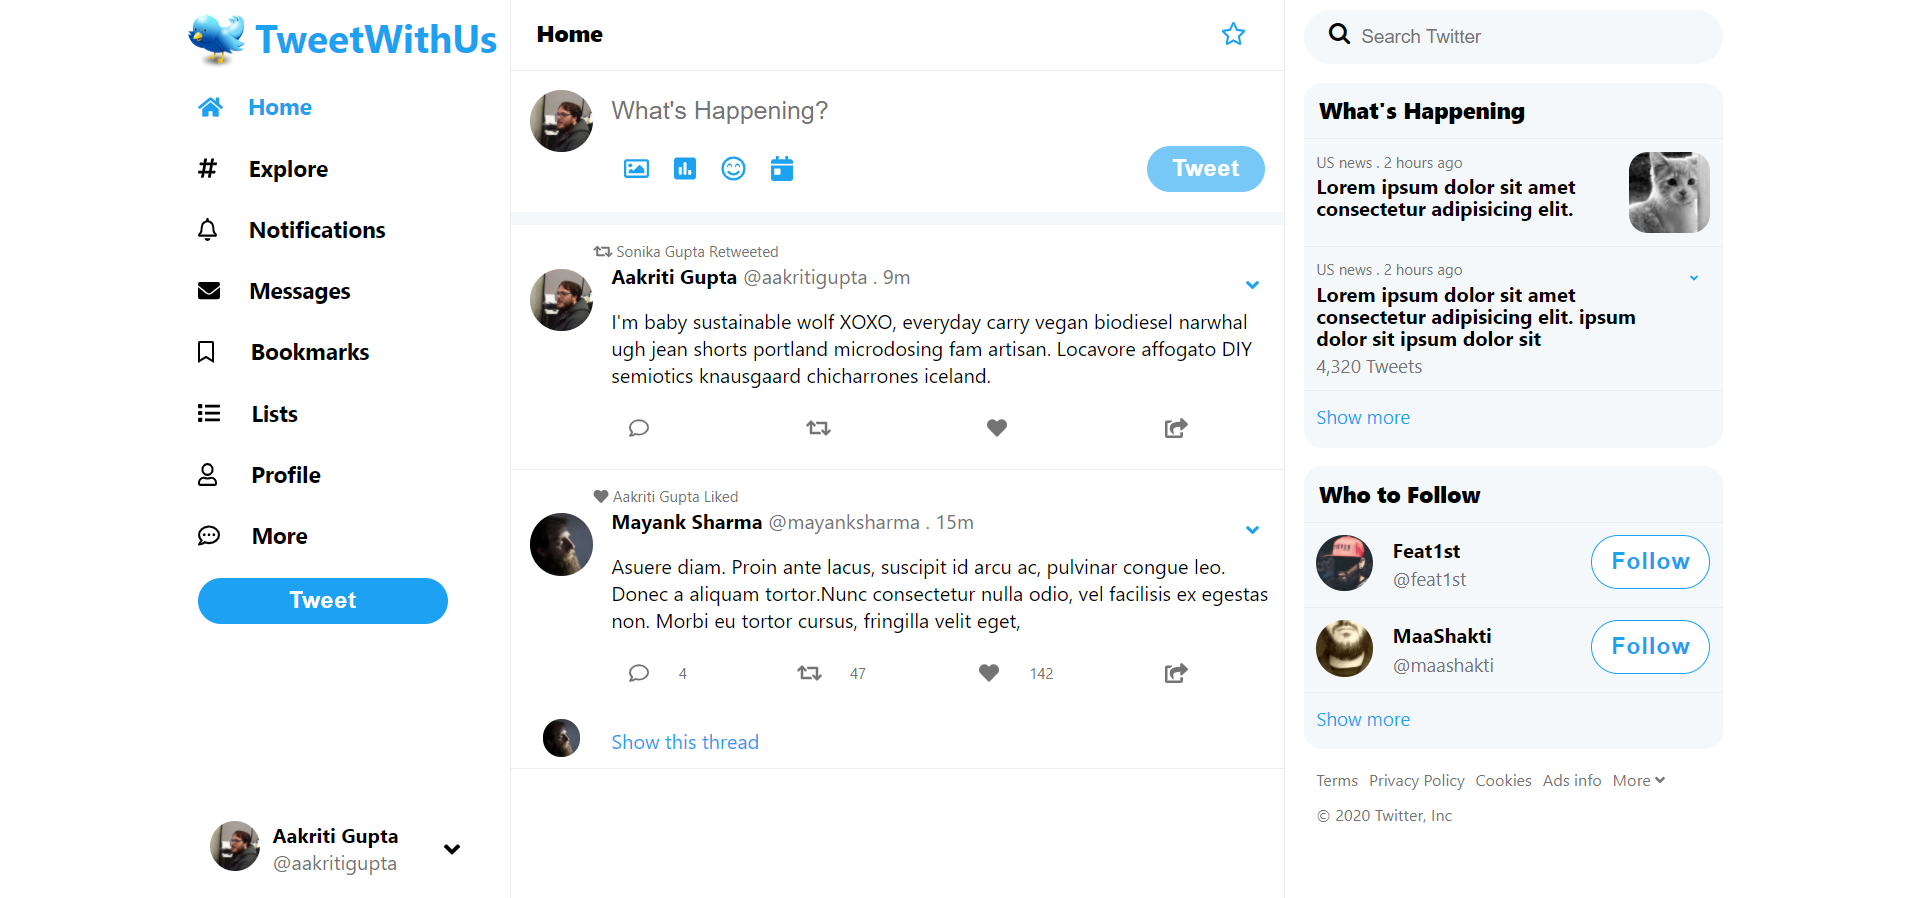
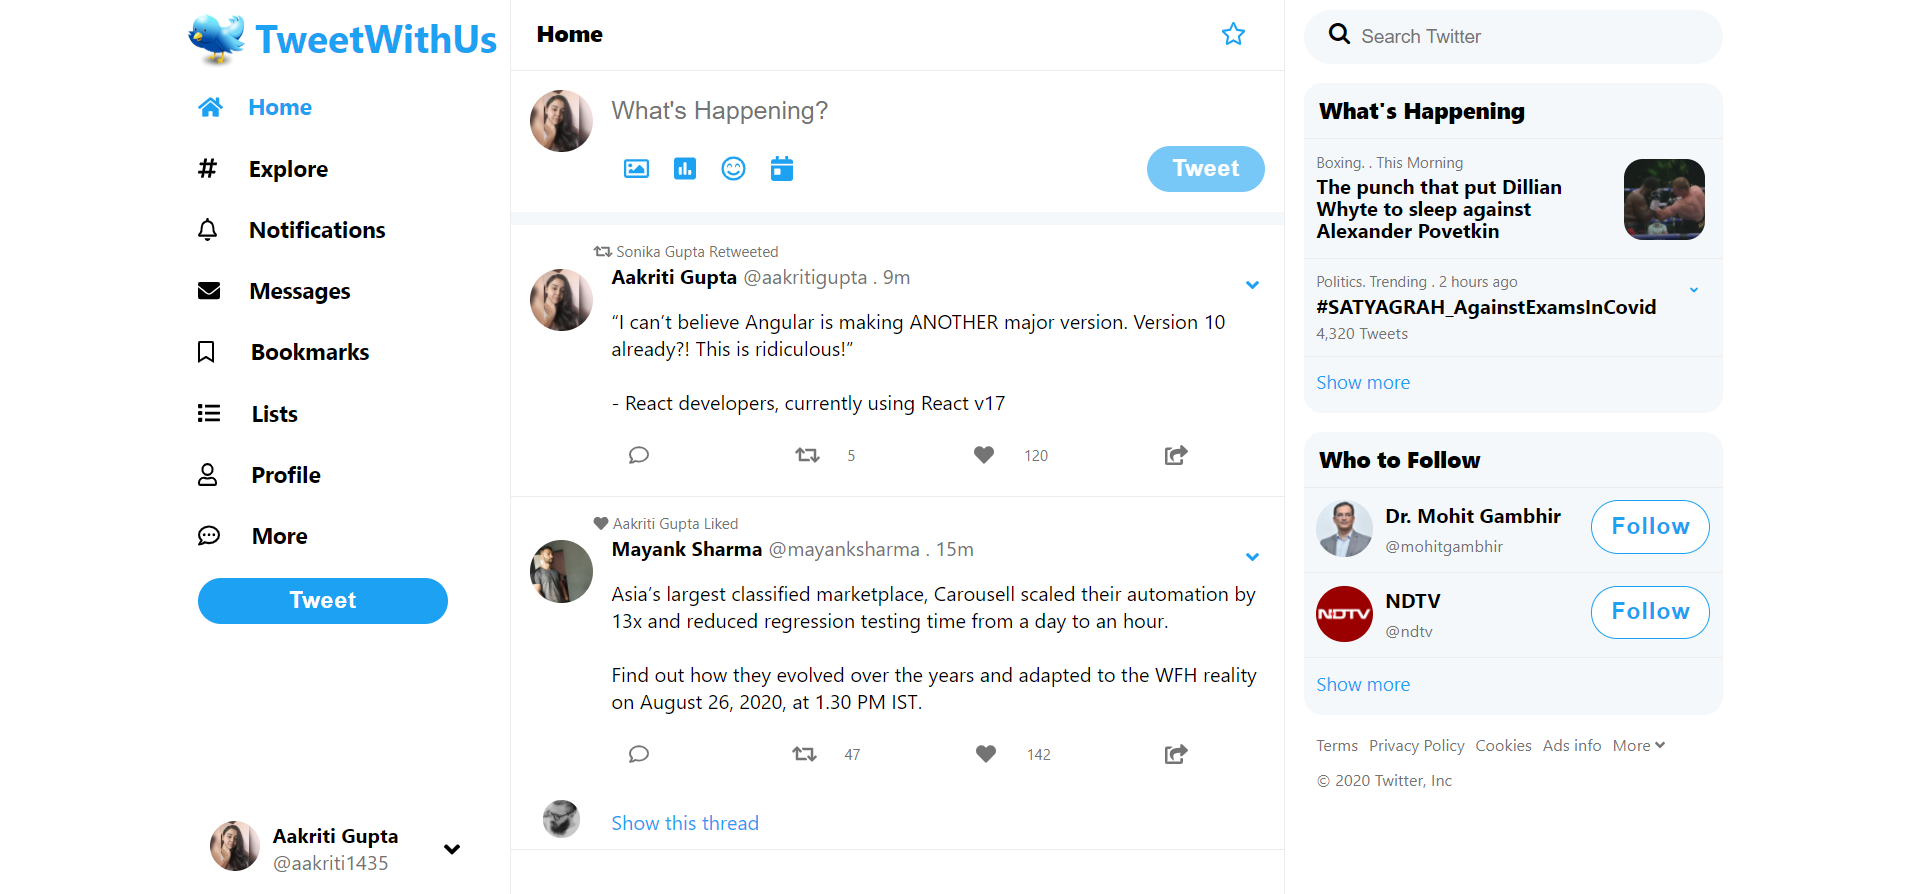
Content Changed

diff --git a/index.html b/index.html
@@ -85,10 +85,10 @@
       <div class="bottom">
         <a href="#" class="profile-container">
           <div class="profile">
-            <img src="https://placebeard.it/320x320" alt="Jesse James Burton" />
+            <img src="https://pbs.twimg.com/profile_images/1291257536046227456/v1MWdZBu_400x400.jpg" alt="Jesse James Burton" />
             <div class="profile__name">
               <strong>Aakriti Gupta</strong>
-              <span>@aakritigupta</span>
+              <span>@aakriti1435</span>
             </div>
           </div>
           <div class="arrow"><i class="fas fa-angle-down"></i></div>
@@ -110,7 +110,7 @@
 
       <form class="tweet-form">
         <div class="tweet-image">
-          <img class="profile-image" src="https://placebeard.it/320x320" alt="Jesse James Burton" />
+          <img class="profile-image" src="https://pbs.twimg.com/profile_images/1291257536046227456/v1MWdZBu_400x400.jpg" alt="Jesse James Burton" />
         </div>
         <div class="tweet-input">
           <input type="text" placeholder="What's Happening?" />
@@ -130,7 +130,7 @@
       <div class="tweets">
         <div class="tweet">
           <div class="tweet-image">
-            <img class="profile-image" src="https://placebeard.it/320x320" alt="Jesse James Burton" />
+            <img class="profile-image" src="https://pbs.twimg.com/profile_images/1291257536046227456/v1MWdZBu_400x400.jpg" alt="Jesse James Burton" />
           </div>
           <div class="tweet-content">
             <div class="latest-info">
@@ -150,18 +150,19 @@
               </div>
             </header>
             <div class="tweet-body">
-              <p>I'm baby sustainable wolf XOXO, everyday carry vegan biodiesel narwhal ugh jean shorts portland
-                microdosing fam artisan. Locavore affogato DIY semiotics knausgaard chicharrones iceland.</p>
+              <p>“I can’t believe Angular is making ANOTHER major version. Version 10 already?! This is ridiculous!”
+              <br><br>
+              - React developers, currently using React v17</p>
             </div>
             <footer class="tweet-footer">
               <a href="#" class="comment">
                 <span><i class="far fa-comment"></i></span>
               </a>
               <a href="#" class="retweet">
-                <span><i class="fas fa-retweet"></i></span>
+                <span><i class="fas fa-retweet"></i></span>5
               </a>
               <a href="#" class="like">
-                <span><i class="fas fa-heart"></i></span>
+                <span><i class="fas fa-heart"></i></span>120
               </a>
               <a href="#" class="share">
                 <span><i class="fas fa-share-square"></i></span>
@@ -172,7 +173,7 @@
 
         <div class="tweet hasthread">
           <div class="tweet-image">
-            <img class="profile-image" src="https://placebeard.it/320x320?tweet2" alt="Jesse James Burton" />
+            <img class="profile-image" src="https://pbs.twimg.com/profile_images/1294604989684318209/UnEAjOqP_400x400.jpg" alt="Jesse James Burton" />
           </div>
           <div class="tweet-content">
             <div class="latest-info">
@@ -192,13 +193,13 @@
               </div>
             </header>
             <div class="tweet-body">
-              <p>Asuere diam. Proin ante lacus, suscipit id arcu ac, pulvinar congue leo. Donec a aliquam tortor.Nunc
-                consectetur nulla odio, vel facilisis ex egestas non. Morbi eu tortor cursus, fringilla velit
-                eget,</p>
+              <p>Asia’s largest classified marketplace, Carousell scaled their automation by 13x and reduced regression testing time from a day to an hour.
+              <br><br>
+              Find out how they evolved over the years and adapted to the WFH reality on August 26, 2020, at 1.30 PM IST.</p>
             </div>
             <footer class="tweet-footer">
               <a href="#" class="comment">
-                <span><i class="far fa-comment"></i></span> 4
+                <span><i class="far fa-comment"></i></span>
               </a>
               <a href="#" class="retweet">
                 <span><i class="fas fa-retweet"></i></span> 47
@@ -234,13 +235,13 @@
         <div class="happening">
           <div class="happening-left">
             <div class="meta">
-              US news . 2 hours ago
+              Boxing. . This Morning
             </div>
-            <div class="text">Lorem ipsum dolor sit amet consectetur adipisicing elit.</div>
+            <div class="text">The punch that put Dillian Whyte to sleep against Alexander Povetkin</div>
           </div>
           <div class="happening-right">
             <div class="happening-image">
-              <img src="https://placekitten.com/g/200/300?rand" alt="Kitten">
+              <img src="https://pbs.twimg.com/media/EgDz5WeUMAExLHs?format=jpg&name=900x900" alt="">
             </div>
           </div>
         </div>
@@ -248,9 +249,10 @@
         <div class="happening">
           <div class="happening-left">
             <div class="meta">
-              US news . 2 hours ago
+              <!-- US news . 2 hours ago -->
+              Politics. Trending . 2 hours ago
             </div>
-            <div class="text">Lorem ipsum dolor sit amet consectetur adipisicing elit. ipsum dolor sit ipsum dolor sit
+            <div class="text">#SATYAGRAH_AgainstExamsInCovid
             </div>
             <div class="sub-meta">
               4,320 Tweets
@@ -278,10 +280,10 @@
         <div class="happening">
           <div class="happening-left">
             <div class="happening-profile">
-              <img class="profile-image" src="https://placebeard.it/320x320?tweetsdfdsf2" alt="Jesse James Burton" />
+              <img class="profile-image" src="https://pbs.twimg.com/profile_images/1259015310574710786/SlZuc0Pq_200x200.jpg" alt="Jesse James Burton" />
               <div class="profile-name">
-                <a href="#">Feat1st</a>
-                <a href="#">@feat1st</a>
+                <a href="#">Dr. Mohit Gambhir</a>
+                <a href="#">@mohitgambhir</a>
               </div>
             </div>
           </div>
@@ -293,10 +295,10 @@
         <div class="happening">
           <div class="happening-left">
             <div class="happening-profile">
-              <img class="profile-image" src="https://placebeard.it/320x320?tweet2dsfas" alt="Jesse James Burton" />
+              <img class="profile-image" src="https://pbs.twimg.com/profile_images/570440108424171520/QuGYd7jH_200x200.png" alt="Jesse James Burton" />
               <div class="profile-name">
-                <a href="#">MaaShakti</a>
-                <a href="#">@maashakti</a>
+                <a href="#">NDTV</a>
+                <a href="#">@ndtv</a>
               </div>
             </div>
           </div>

diff --git a/style.css b/style.css
@@ -435,7 +435,7 @@ main a {
 .happening .sub-meta,
 .happening .profile-name a + a {
   font-weight: 400;
-  font-size: 1.5rem;
+  font-size: 1.3rem;
   color: var(--greytext);
 }
 
@@ -446,7 +446,7 @@ main a {
 .happening-profile img.profile-image {
   width: 4.5rem;
   height: 4.5rem;
-  margin-right: 1.6rem;
+  margin-right: 1.0rem;
 }
 
 .happening-profile .profile-name {
@@ -454,7 +454,7 @@ main a {
 }
 
 .happening-left {
-  padding-right: 1rem;
+  padding-right: 1.5rem;
 }
 
 .happening-image {
@@ -462,6 +462,8 @@ main a {
   height: 6.5rem;
   border-radius: 1.5rem;
   overflow: hidden;
+  margin-top: 6px;
+  margin-right: 4px;
 }
 
 .happening-image img {
